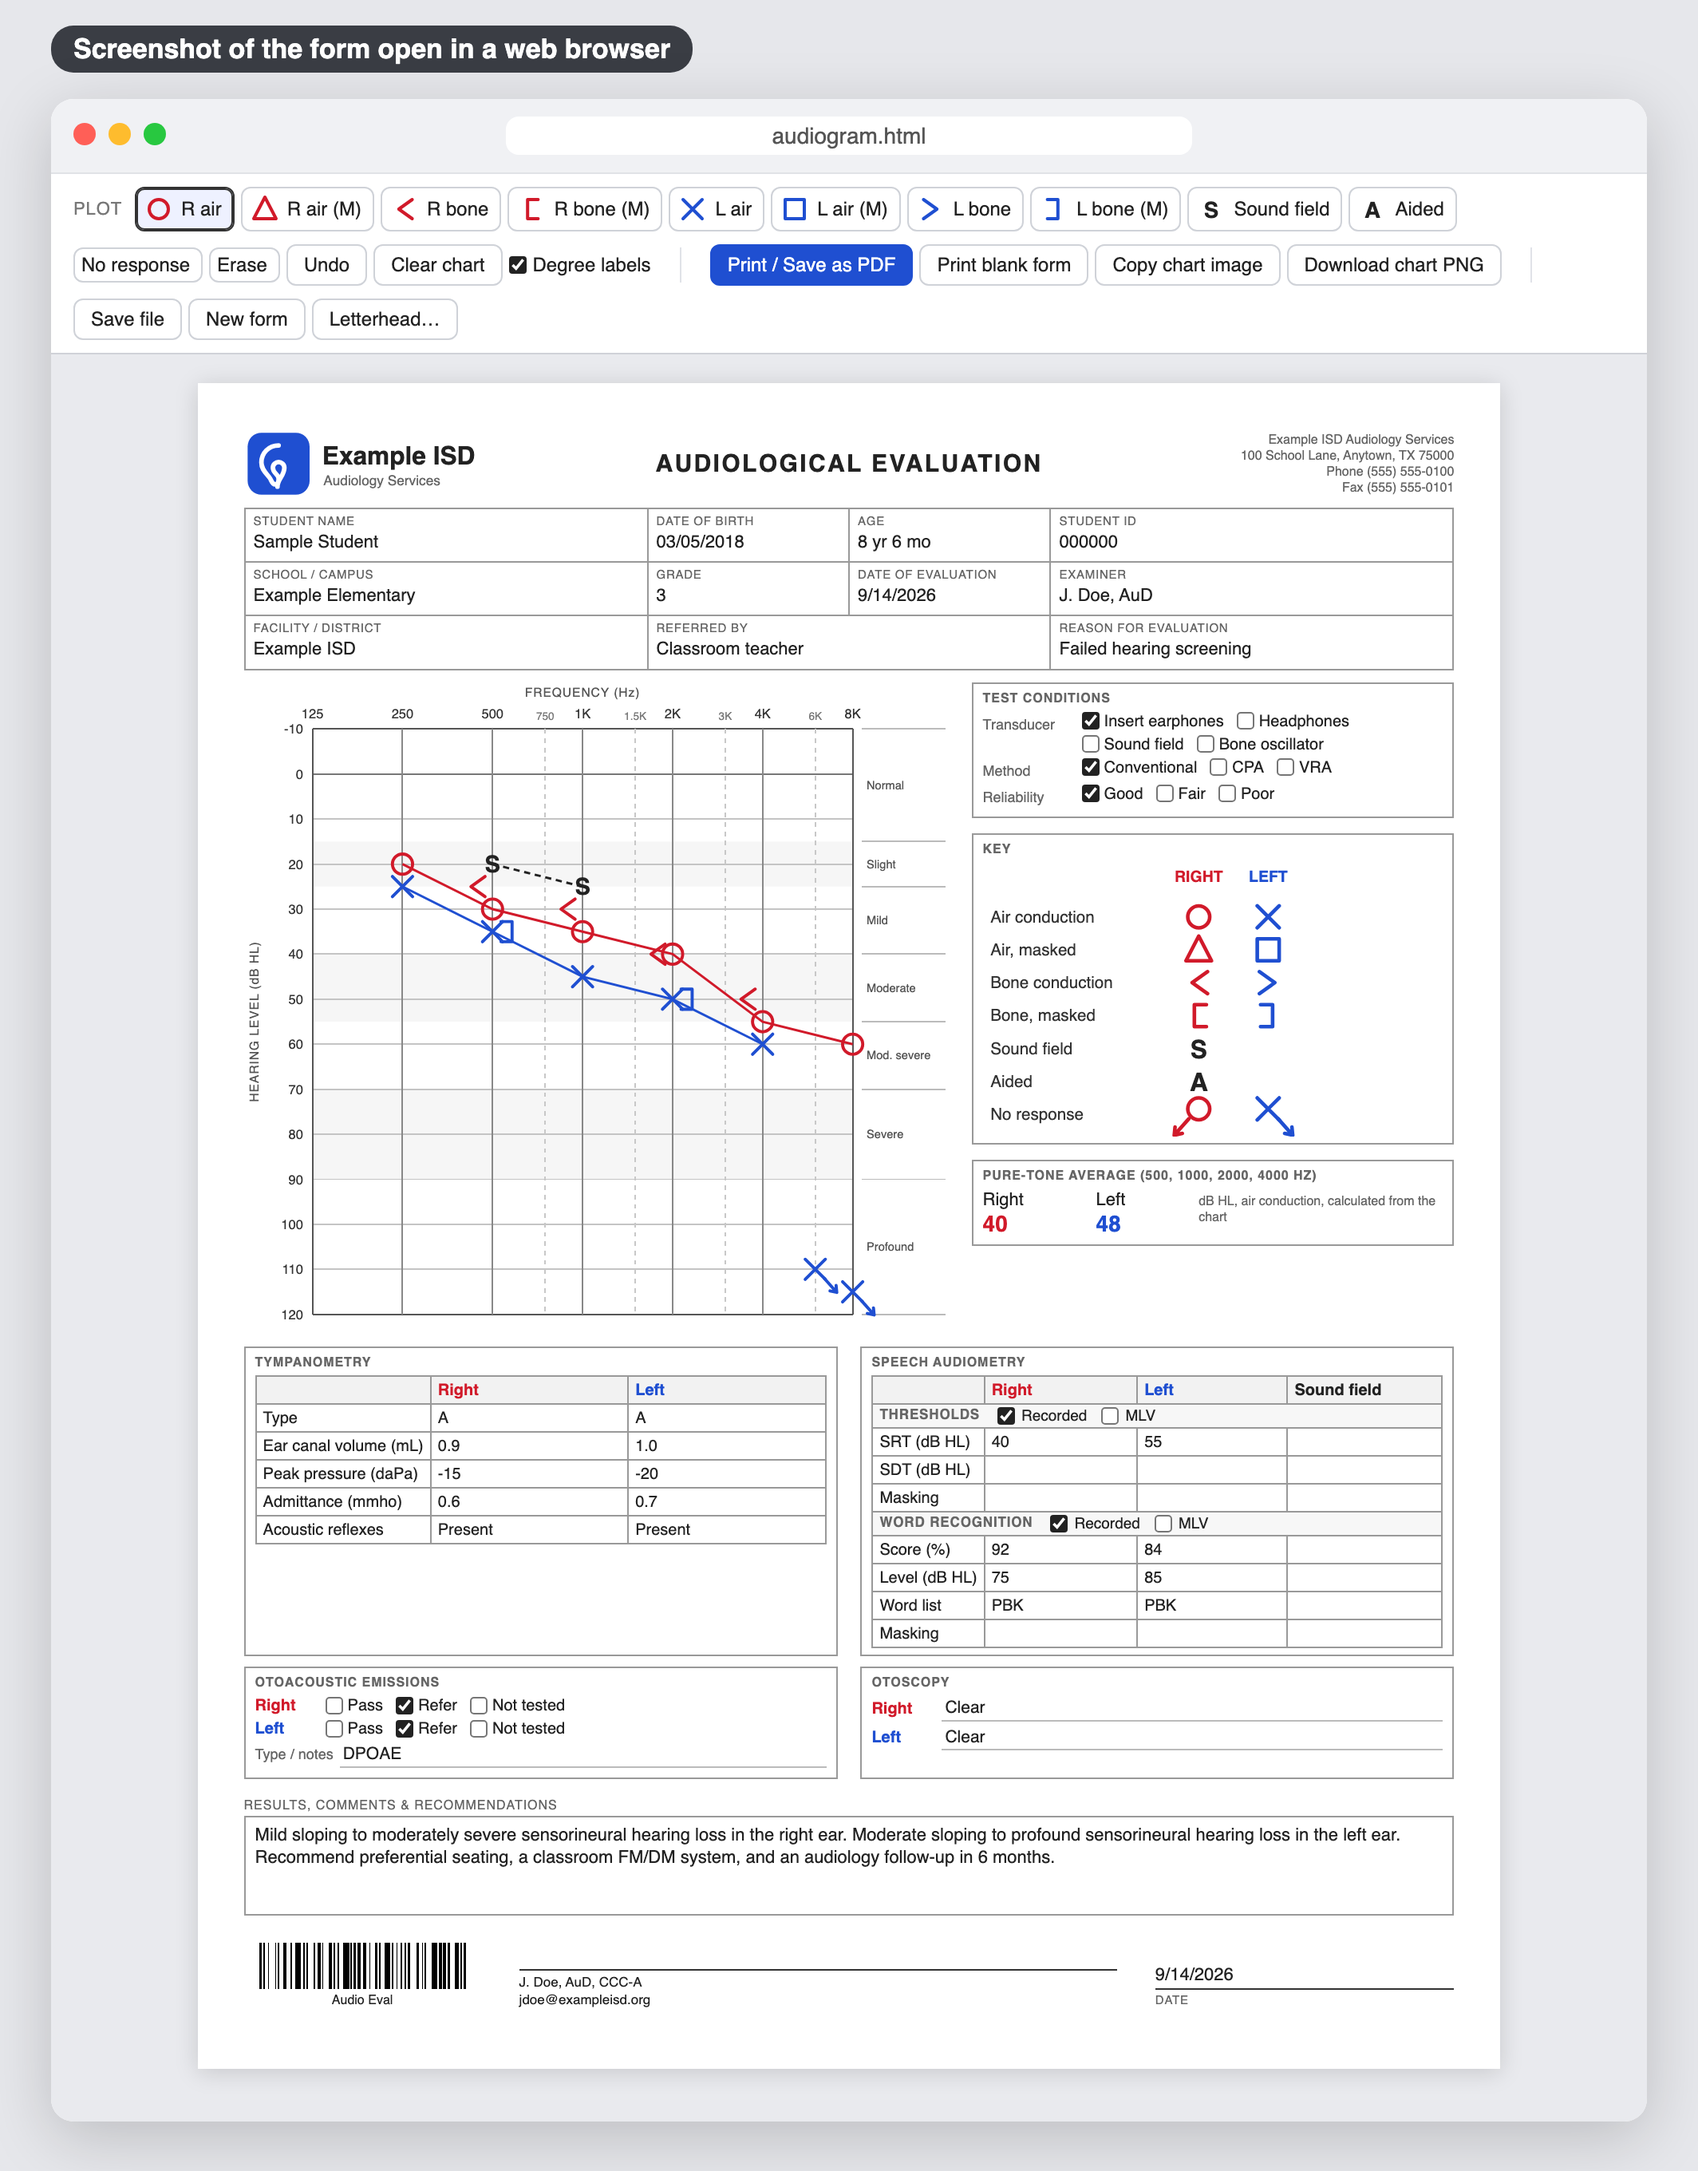
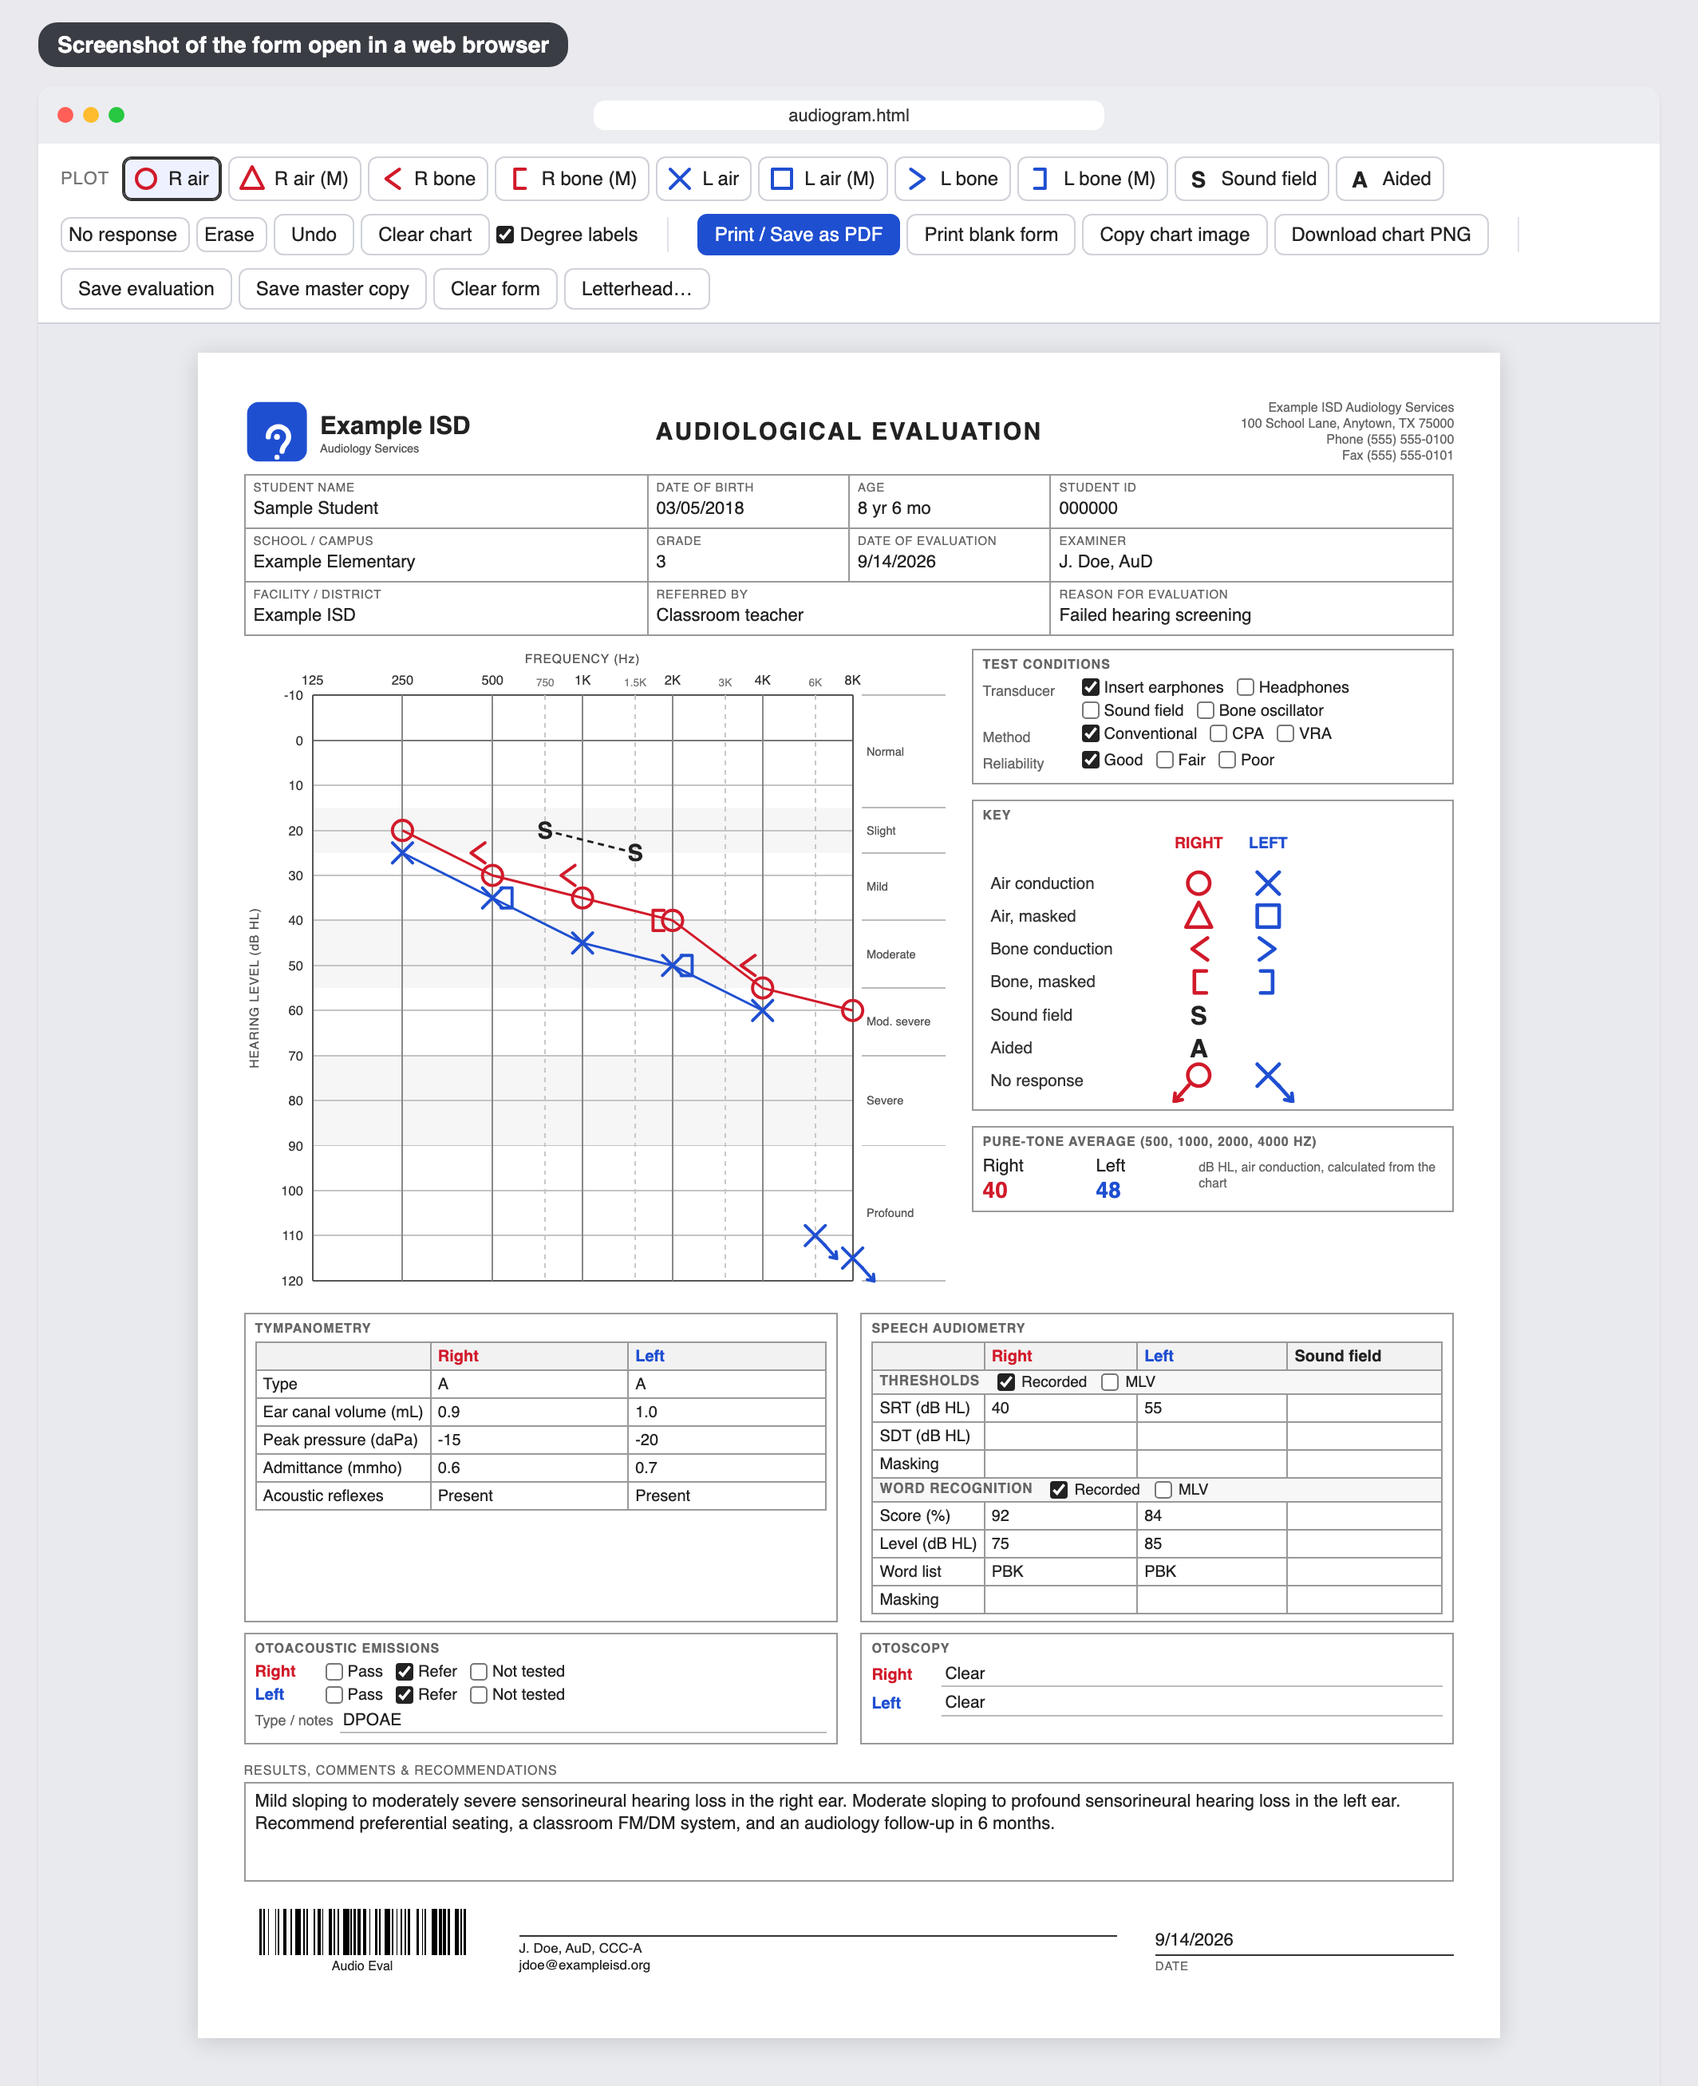
README: ABR screenshots, plotting and masking, both forms' letterhead

diff --git a/README.md b/README.md
@@ -44,22 +44,37 @@ How to use it:
 - **Print / Save as PDF** opens your print dialog. Choose "Save as PDF" as the printer to get a PDF file.
 - **Print blank form** prints an empty copy for hand-plotting.
 - **Copy chart image** puts a picture of the chart and key on your clipboard, ready to paste into a report or email.
-- **Save file** downloads a copy of the form with everything filled in, named after the student and date. Open that copy later to see or change the evaluation. Your original stays blank, so keep it as your master.
+- **Save evaluation** downloads a copy of the form with everything filled in, named after the student and date. Open that copy later to see or change the evaluation. Your original stays blank, so keep it as your master.
+- **Clear form** empties every field, ready for the next student.
 
 ## ABR report
 
-Works the same way: one file, opens in any browser, prints to a two-page PDF. What is different from the audiogram form:
+Again, these are pictures; clicking one downloads the real form.
 
-- **Thresholds are typed, not clicked.** Enter ABR thresholds in dB nHL for click and toneburst stimuli, by ear and by air or bone conduction. Write `35*` when the lowest level tested had a response, and `NR 90` for no response at 90.
-- **Estimated behavioral thresholds** (dB eHL) fill in on their own from the measured table, using a correction for each stimulus. The corrections are editable and the printout states which ones were used. Untick "Calculate from measured" to type the estimates yourself.
-- **The audiogram draws itself** from the estimated table.
-- **Page 2** holds otoacoustic emissions, immittance, a summary of hearing status, the interpretation, a recommendations checklist, and the signature.
+Filling it in on screen. Thresholds go into the measured table, and the estimated table and the audiogram follow. You can also plot on the chart, and the tables follow that.
+
+[![Screenshot of the ABR report open in a web browser, with sample thresholds and the estimated audiogram](docs/abr/form-on-screen.png)](https://github.com/citizenkade/audiology-forms/releases/latest/download/abr-report.html)
+
+What comes out of the printer. Two US Letter pages.
+
+[![Screenshot of printed page 1](docs/abr/printed-page-1.png)](https://github.com/citizenkade/audiology-forms/releases/latest/download/abr-report.html)
+
+[![Screenshot of printed page 2](docs/abr/printed-page-2.png)](https://github.com/citizenkade/audiology-forms/releases/latest/download/abr-report.html)
+
+It works the same way as the audiogram: one file, opens in any browser, prints to PDF. What is different:
+
+- **Thresholds are typed or plotted.** Enter ABR thresholds in dB nHL for click and toneburst stimuli, by ear and by air or bone conduction. Write `35*` when the lowest level tested had a response, `NR 90` for no response at 90, and add `M` for a masked threshold (`45M`, `NR 90M`). Or pick a symbol in the toolbar and click on the chart, the same as the audiogram form; the click fills in the matching table cell. Clicking a symbol that is already there switches it between masked and unmasked.
+- **Tab moves down the column**, so you can enter the whole right ear, then the left, then right bone, then left bone.
+- **Estimated behavioral thresholds** (dB eHL) fill in on their own from the measured table while "Auto-fill using correction factors" is ticked. Click *correction factors* to see or change them: one set for air conduction, one for bone. The printout states which ones were used. Untick auto-fill to type the estimates yourself.
+- **The audiogram draws itself** from the estimated table, with masked symbols where you marked them.
+- **Page 1** also holds the history, testing notes, click latencies, and otoscopy. **Page 2** holds otoacoustic emissions, immittance, a summary of hearing status, the interpretation, a recommendations checklist, and the signature. Two recommendations ask a follow-up question when ticked: whether a hearing aid consult was completed today, and whether a cochlear implant referral was placed today.
+- **Correction factors are saved with your letterhead.** Save a master copy (below) and a colleague who opens it gets the same corrections.
 
 ## Your letterhead
 
-The audiogram form has a **Letterhead…** button in the toolbar that puts your logo, office details, and name on every printout. You can set a logo, up to four lines of office contact information, your name and credentials for under the signature line, and a document identifier that prints as a barcode for records systems that file by type. Each is optional.
+Both forms have a **Letterhead…** button in the toolbar that puts your logo, office details, and name on every printout. You can set a logo, up to four lines of office contact information, your name and credentials for under the signature line, and a document identifier that prints as a barcode for records systems that file by type, on the first page, the last page, or every page. Each is optional.
 
-The letterhead prints right away, but the form can't save it into itself. To keep it, click **Save master copy** in the panel. That downloads a blank `audiogram.html` with your letterhead built in. Use that file from now on, and give it to colleagues so everyone prints the same letterhead. Files you save with student information carry the letterhead too.
+The letterhead prints right away, but the form can't save it into itself. To keep it, click **Save master copy**, in the toolbar or in the panel. That downloads a blank copy of the form (`audiogram.html` or `abr-report.html`) with your letterhead built in, and for the ABR report your correction factors too. Use that file from now on, and give it to colleagues so everyone prints the same letterhead. Evaluations you save carry the letterhead too.
 
 ## Privacy
 
